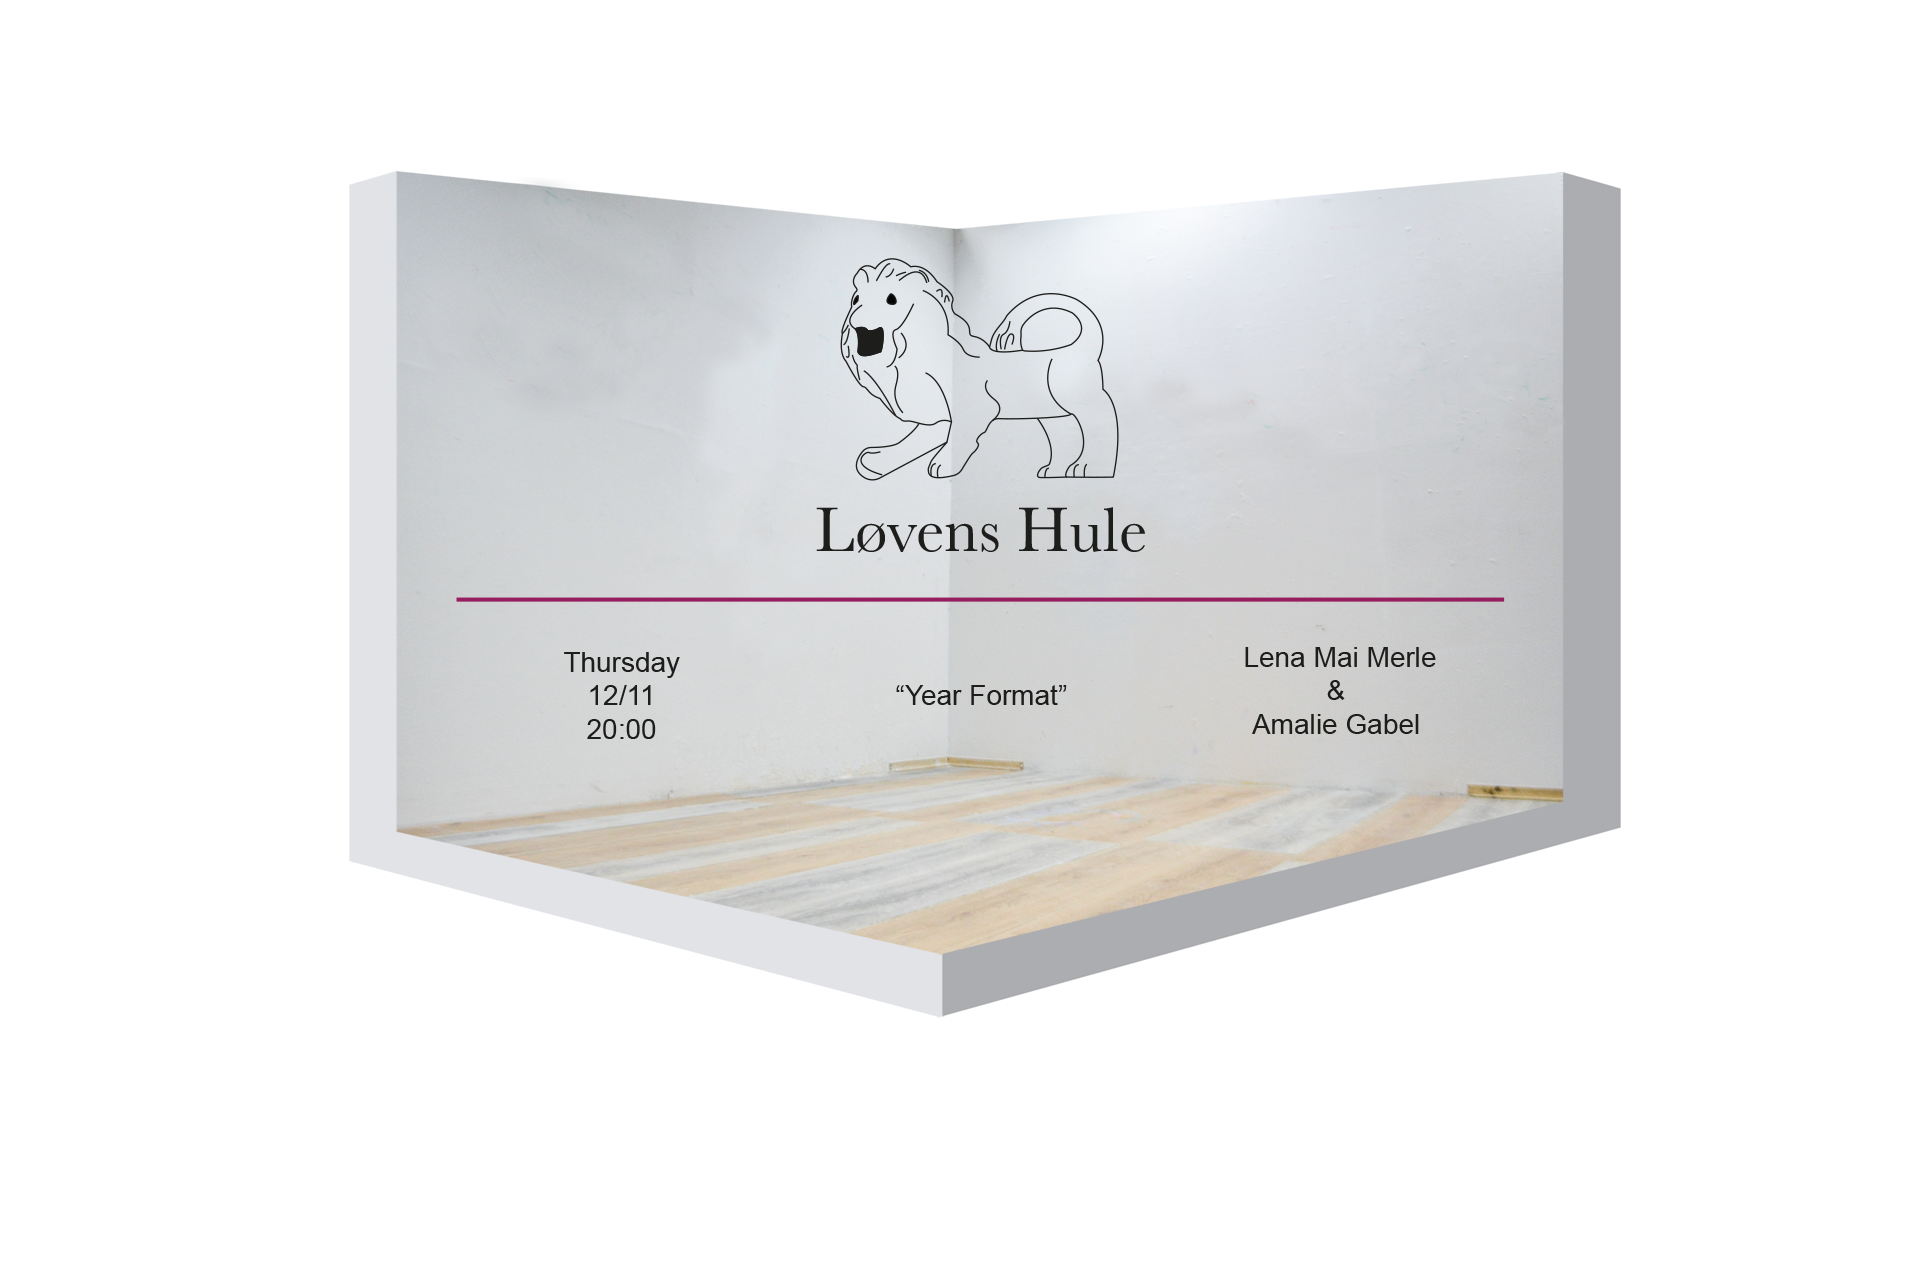
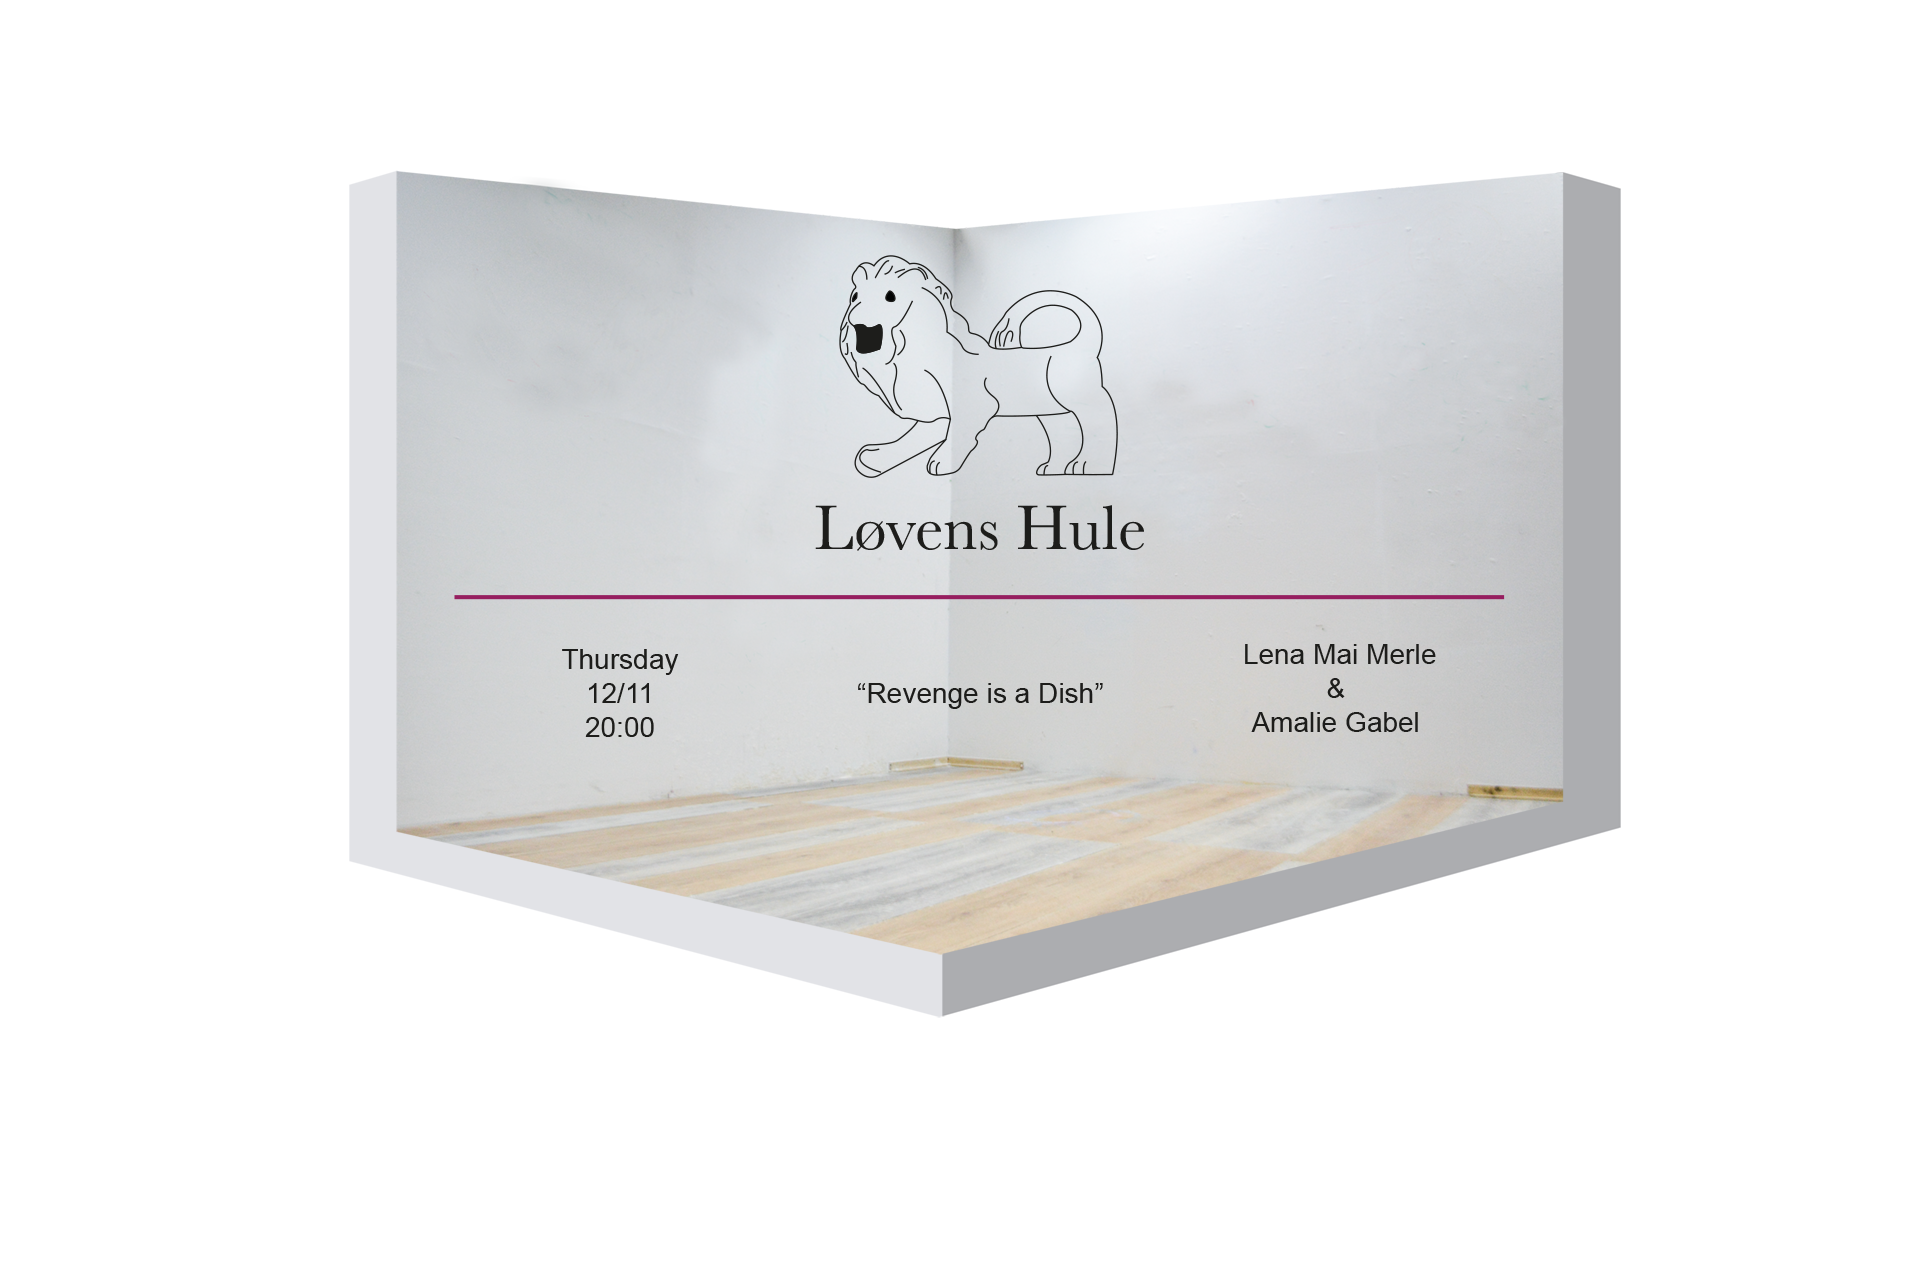
updated ny

diff --git a/exhibitions.html b/exhibitions.html
@@ -37,7 +37,7 @@
       <br>
     <li> 10.12.2020 – Heavey Blankets</li>
     <br>
-    <li>  <a href="index"><u>12.11.2020 – <i>Year Format</i>, Lena Mai Merle & Amalie Gabel</li>
+    <li>  <a href="index"><u>12.11.2020 – <i>Revenge is a Dish</i>, Lena Mai Merle & Amalie Gabel</li>
     <br>
     <li> <a href="kantarellgrenda17"><u>15.10.2020 – <i>Kantarellgrenda 17</i>, Eivind Nesterud & Fredrik Værslev</u></li>
     <br>
